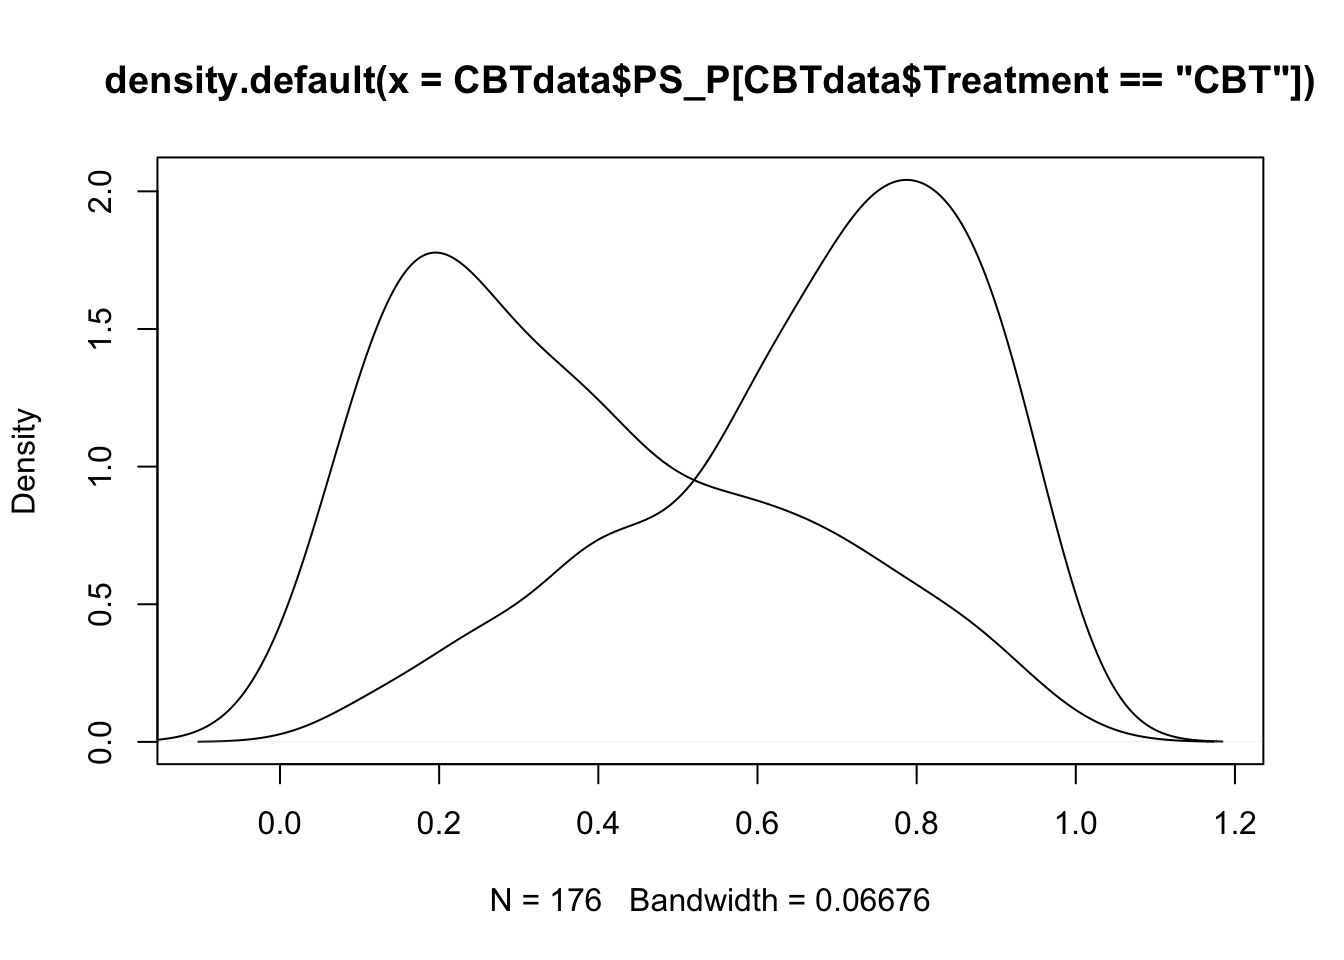
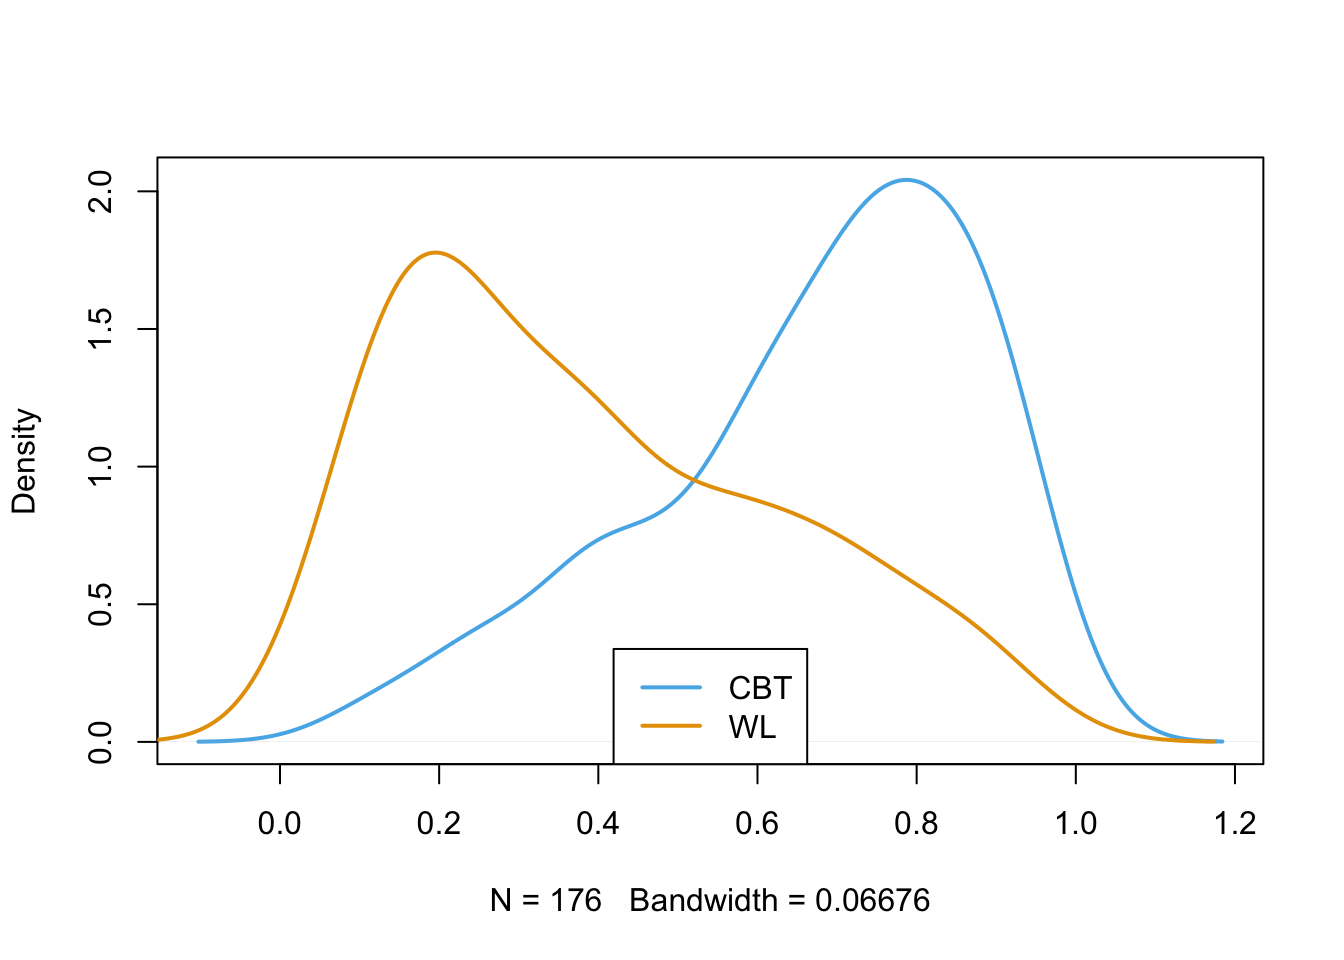
Streamline Kausalschätzer 2 and add final discussion.

diff --git a/content/post/2022-02-07_Kausaleffekte_2_KliPPS.html b/content/post/2022-02-07_Kausaleffekte_2_KliPPS.html
@@ -1404,6 +1404,114 @@ table(df.strat$Treatment, df.strat$subclass)</code></pre>
 <p><img src="/post/2022-02-07_Kausaleffekte_2_KliPPS_files/figure-html/unnamed-chunk-32-1.png" width="672" /></p>
 <div id="effektschätzung-1" class="section level3">
 <h3>Effektschätzung</h3>
+<p>Es gibt nun mehrere Möglichkeiten bei Stratifizierung den Treatmenteffekt zu bestimmen. Entweder können wir in jedem Stratum den Effekt schätzen, indem wir die Mittelwerte in der CBT und der WL Gruppe vergleichen (siehe hierzu <a href="#AppendixC">Appendix C</a>), oder wir verwenden die Gewichte, die bei der Stratifizierung ebenfalls bestimmt werden und rechnen erneut eine gewichtete Regression. Da bei der ersten Variante das Bestimmen des Standardfehlers und die damit verbundene Signifikanzentscheidung recht schwierig ist, schauen wir uns jetzt, wie für das Full Optimal Matching, eine Schätzung mit dem linearen Modell unter Verwendung der Gewichte an. Der hier resultierende Effekt von <span class="math inline">\(\beta = -3.89\)</span> ist ähnlich dem beim Full Optimal Matching. Beide Methoden sind sich konzeptuell ähnlich, bei der Stratifizierung werden mit einer einfacheren Methode weniger Subklassen gebildet.</p>
+<pre class="r"><code>lm.strat &lt;- lm(BDI_post ~ Treatment, data = df.strat, weights = weights)
+summary(lm.strat)</code></pre>
+<pre><code>## 
+## Call:
+## lm(formula = BDI_post ~ Treatment, data = df.strat, weights = weights)
+## 
+## Weighted Residuals:
+##     Min      1Q  Median      3Q     Max 
+## -15.004  -4.494  -1.494   1.506  30.792 
+## 
+## Coefficients:
+##              Estimate Std. Error t value Pr(&gt;|t|)    
+## (Intercept)   22.3833     0.4458  50.206  &lt; 2e-16 ***
+## TreatmentCBT  -3.8890     0.6068  -6.409 5.16e-10 ***
+## ---
+## Signif. codes:  0 &#39;***&#39; 0.001 &#39;**&#39; 0.01 &#39;*&#39; 0.05 &#39;.&#39; 0.1 &#39; &#39; 1
+## 
+## Residual standard error: 5.46 on 324 degrees of freedom
+## Multiple R-squared:  0.1125, Adjusted R-squared:  0.1098 
+## F-statistic: 41.08 on 1 and 324 DF,  p-value: 5.156e-10</code></pre>
+<p>Die Gewichte waren im Datensatz <code>df.strat</code> unter dem Argument <code>weights</code> verfügbar und mussten so wie zuvor beim Full Optimal Matching im <code>lm</code>-Befehl nur entsprechend zugeordnet werden.</p>
+</div>
+</div>
+<div id="gewichtung-mit-dem-propensity-score" class="section level2">
+<h2>Gewichtung mit dem Propensity Score</h2>
+<p>Alternativ zur Bildung von Gewichten durch Matching können wir die Gewichte direkt auf Basis des Propensity Scores <span class="math inline">\(\pi\)</span> und der Treatmentgruppen-Zugehörigkeit <span class="math inline">\(X \in \{0,1\}\)</span> konstruieren. Die Formel hierfür ist</p>
+<p><span class="math display">\[\frac{X_i}{\pi_i}+\frac{1-X_i}{1-\pi_i}\]</span></p>
+<pre class="r"><code># mit (CBTdata$Treatment==&quot;CBT&quot;)*1 wird Treatment numerisch mit 1, Kontrollgruppe mit 0 kodiert
+CBTdata$ps_w &lt;- (CBTdata$Treatment==&quot;CBT&quot;)*1/CBTdata$PS_P + (1 - (CBTdata$Treatment==&quot;CBT&quot;)*1)/(1 - CBTdata$PS_P)</code></pre>
+<p>Diese Gewichte können in der <code>lm</code>-Funktion verwendet werden, um eine Schätzung mittels <em>weighted least squares</em> (WLS) vorzunehmen. Hierbei erhalten wir mit einem geschätzten Treatment-Effekt von -4.59 eine ähnliche Schätzung wie mit den anderen Methoden.</p>
+<pre class="r"><code>BDI.weighted &lt;- lm(BDI_post ~ Treatment, data = CBTdata, weights = ps_w)
+summary(BDI.weighted)</code></pre>
+<pre><code>## 
+## Call:
+## lm(formula = BDI_post ~ Treatment, data = CBTdata, weights = ps_w)
+## 
+## Weighted Residuals:
+##     Min      1Q  Median      3Q     Max 
+## -25.164  -6.222  -0.731   3.931  55.347 
+## 
+## Coefficients:
+##              Estimate Std. Error t value Pr(&gt;|t|)    
+## (Intercept)   21.4538     0.4603  46.611  &lt; 2e-16 ***
+## TreatmentCBT  -4.5866     0.6629  -6.919 2.43e-11 ***
+## ---
+## Signif. codes:  0 &#39;***&#39; 0.001 &#39;**&#39; 0.01 &#39;*&#39; 0.05 &#39;.&#39; 0.1 &#39; &#39; 1
+## 
+## Residual standard error: 8.515 on 324 degrees of freedom
+## Multiple R-squared:  0.1287, Adjusted R-squared:  0.1261 
+## F-statistic: 47.88 on 1 and 324 DF,  p-value: 2.435e-11</code></pre>
+<p>Wir sehen, dass alle Korrekturen zu ähnlichen Ergebnissen kommen. Der Treatmenteffekt ist signifikant. Nur in der Ausprägung kommt es von Methode zu Methode zu leichten Unterschieden. Diese Unterschiede kommen mitunter zu Stande, weil die Methoden unterschiedlich viele Informationen über die Daten nutzen. Bspw. hatten wir bei der Stratifizierung nur 5 Subklassen gebildet, während beim Full Matching deutlich mehr Subklassen extrahiert wurden (die Methode war aber auch etwas anders!). Wir können also, unter den (strengen) Annahmen der Methoden, vor allem <em>Strong Ignoribility</em>, schließen, dass es einen Treatmenteffekt gibt (mit einer Irrtumswahrscheinlichkeit von 5%).</p>
+<hr />
+</div>
+<div id="r-skript" class="section level2">
+<h2>R-Skript</h2>
+<p>Den gesamten <code>R</code>-Code, der in dieser Sitzung genutzt wird, können Sie <a href="/post/KliPPs_MSc5a_R_Files/10_Kausalschätzer_2_RCode.R"><svg aria-hidden="true" role="img" viewBox="0 0 512 512" style="height:1em;width:1em;vertical-align:-0.125em;margin-left:auto;margin-right:auto;font-size:inherit;fill:currentColor;overflow:visible;position:relative;"><path d="M216 0h80c13.3 0 24 10.7 24 24v168h87.7c17.8 0 26.7 21.5 14.1 34.1L269.7 378.3c-7.5 7.5-19.8 7.5-27.3 0L90.1 226.1c-12.6-12.6-3.7-34.1 14.1-34.1H192V24c0-13.3 10.7-24 24-24zm296 376v112c0 13.3-10.7 24-24 24H24c-13.3 0-24-10.7-24-24V376c0-13.3 10.7-24 24-24h146.7l49 49c20.1 20.1 52.5 20.1 72.6 0l49-49H488c13.3 0 24 10.7 24 24zm-124 88c0-11-9-20-20-20s-20 9-20 20 9 20 20 20 20-9 20-20zm64 0c0-11-9-20-20-20s-20 9-20 20 9 20 20 20 20-9 20-20z"/></svg> hier herunterladen</a>.</p>
+<hr />
+</div>
+<div id="AppendixA" class="section level2">
+<h2>Appendix A</h2>
+<details>
+<summary>
+<strong>Kurze Grafiken</strong>
+</summary>
+<p>Mit <code>density</code> kann man die Dichte (also die Häufigkeitsverteilung) einer Variable bestimmen. Diese kann man recht leicht plotten:</p>
+<pre class="r"><code>## Overlap &amp; Common Support ----
+plot(density(CBTdata$PS_P[CBTdata$Treatment == &quot;CBT&quot;]), 
+     type = &quot;l&quot;)
+lines(density(CBTdata$PS_P[CBTdata$Treatment == &quot;WL&quot;]))</code></pre>
+<p><img src="/post/2022-02-07_Kausaleffekte_2_KliPPS_files/figure-html/unnamed-chunk-37-1.png" width="672" /></p>
+<p>Jetzt können wir leider die Linien nicht unterscheiden, weswegen wir die Farben aus den anderen Grafiken nun auch hier einfügen. Außerdem spendieren wir eine Legenende, änderen die Dicke der Linien und entfernen den seltsame Titel:</p>
+<pre class="r"><code>## Overlap &amp; Common Support ----
+plot(density(CBTdata$PS_P[CBTdata$Treatment == &quot;CBT&quot;]), 
+     col = &quot;#56B4E9&quot;, lwd = 2, type = &quot;l&quot;, main = &quot;&quot;)
+lines(density(CBTdata$PS_P[CBTdata$Treatment == &quot;WL&quot;]), 
+      col = &quot;#E69F00&quot;, lwd = 2)
+legend(legend = c(&quot;CBT&quot;, &quot;WL&quot;), lwd = 2, 
+       col = c(&quot;#56B4E9&quot;, &quot;#E69F00&quot;), x = &quot;bottom&quot;)</code></pre>
+<p><img src="/post/2022-02-07_Kausaleffekte_2_KliPPS_files/figure-html/unnamed-chunk-38-1.png" width="672" /></p>
+</details>
+</div>
+<div id="Gewichtung" class="section level2">
+<h2>Appendix B</h2>
+<details>
+<summary>
+<strong>Bildung der Gewichte</strong>
+</summary>
+<p>Die Gewichte zur Schätzung des ATT, mit denen die relativen Häufigkeiten der Kovariaten-Subklassen der Treatment-Gruppe, an die Kontrollgruppe angeglichen werden, werden wie folgt gebildet:</p>
+<p><span class="math display">\[w_{Cs}=\frac{N_C}{n_{Cs}}*\frac{n_{Ts}}{N_T}\]</span>
+Hierbei sind</p>
+<ul>
+<li><span class="math inline">\(w_{Cs}\)</span> das Gewicht für Kontrollpersonen in Subklasse <span class="math inline">\(s\)</span></li>
+<li><span class="math inline">\(N_C\)</span> die Größe der Kontrollgruppe</li>
+<li><span class="math inline">\(N_T\)</span> die Größe der Treatment-Gruppe</li>
+<li><span class="math inline">\(n_{Cs}\)</span> die Anzahl von Kontrollpersonen in Subklasse <span class="math inline">\(s\)</span></li>
+<li><span class="math inline">\(n_{Ts}\)</span> die Anzahl von Treatment-Personen in Subklasse <span class="math inline">\(s\)</span></li>
+</ul>
+<p>Die Gewichte werden also umso größer, je mehr Treatment-Personen in einer Subklasse <span class="math inline">\(s\)</span> sind, und um so kleiner, je mehr Kontrollpersonen in der Subklasse sind. Die Summe der Gewichte über alle Subklassen <span class="math inline">\(S\)</span> entspricht der urprünglichen Fallzahl <span class="math inline">\(N_C\)</span>:</p>
+<span class="math display">\[\sum^S_{s=1}{w_{Cs}}=N_C\]</span>
+</details>
+</div>
+<div id="AppendixC" class="section level2">
+<h2>Appendix C</h2>
+<details>
+<summary>
+<strong>Effektschätzung bei Stratifizierung per Hand</strong>
+</summary>
 <p>Den Treatment-Effekt können wir “per Hand” berechnen. Die Funktion <code>tapply</code> wird hierbei benutzt, um die Mittelwerte von Treatment- und Kontrollgruppe in den Strata zu berechnen. <code>tapply</code> wendet dabei eine Funktion (hier <code>mean</code>) auf eine Kombination aus Gruppierungen an. Diese Mittelwerte packen wir anschließend in einen <code>data.frame</code>, um sie uns besser anzusehen.</p>
 <p>Die Mittelwerte in der CBT und der WL Gruppen werden dann als Schätzer für <span class="math inline">\(Y^0\)</span> und <span class="math inline">\(Y^1\)</span> verwendet, aus ihrer Differenz ergibt sich der ATT innerhalb jedes Stratum.
 Für jedes Stratum wird anhand des Anteils der Fälle an der Gesamtstichprobe ein Gewichtungsfaktor berechtet.</p>
@@ -1437,104 +1545,5 @@ sum(MWW$Wq * MWW$ATEq)</code></pre>
 ## 8         3       CBT 18.52778
 ## 9         4       CBT 19.80000
 ## 10        5       CBT 23.72222</code></pre>
-<p>Eine weitere Möglichkeit ist, wie für das Full Optimal Matching, eine Schätzung mit dem linearen Modell unter Verwendung der Gewichte. Der hier resultierende Effekt von <span class="math inline">\(\beta = -3.89\)</span> ist ähnlich dem beim Full Optimal Matching. Beide Methoden sind sich konzeptuell ähnlich, bei der Stratifizierung werden mit einer einfacheren Methode weniger Subklassen gebildet.</p>
-<pre class="r"><code>lm.strat &lt;- lm(BDI_post ~ Treatment, data = df.strat, weights = weights)
-summary(lm.strat)</code></pre>
-<pre><code>## 
-## Call:
-## lm(formula = BDI_post ~ Treatment, data = df.strat, weights = weights)
-## 
-## Weighted Residuals:
-##     Min      1Q  Median      3Q     Max 
-## -15.004  -4.494  -1.494   1.506  30.792 
-## 
-## Coefficients:
-##              Estimate Std. Error t value Pr(&gt;|t|)    
-## (Intercept)   22.3833     0.4458  50.206  &lt; 2e-16 ***
-## TreatmentCBT  -3.8890     0.6068  -6.409 5.16e-10 ***
-## ---
-## Signif. codes:  0 &#39;***&#39; 0.001 &#39;**&#39; 0.01 &#39;*&#39; 0.05 &#39;.&#39; 0.1 &#39; &#39; 1
-## 
-## Residual standard error: 5.46 on 324 degrees of freedom
-## Multiple R-squared:  0.1125, Adjusted R-squared:  0.1098 
-## F-statistic: 41.08 on 1 and 324 DF,  p-value: 5.156e-10</code></pre>
-</div>
-</div>
-<div id="gewichtung-mit-dem-propensity-score" class="section level2">
-<h2>Gewichtung mit dem Propensity Score</h2>
-<p>Alternativ zur Bildung von Gewichten durch Matching können wir die Gewichte direkt auf Basis des Propensity Scores <span class="math inline">\(\pi\)</span> und der Treatmentgruppen-Zugehörigkeit <span class="math inline">\(X \in \{0,1\}\)</span> konstruieren. Die Formel hierfür ist</p>
-<p><span class="math display">\[\frac{X_i}{\pi_i}+\frac{1-X_i}{1-\pi_i}\]</span></p>
-<pre class="r"><code># mit (CBTdata$Treatment==&quot;CBT&quot;)*1 wird Treatment numerisch mit 1, Kontrollgruppe mit 0 kodiert
-CBTdata$ps_w &lt;- (CBTdata$Treatment==&quot;CBT&quot;)*1/CBTdata$PS_P + (1 - (CBTdata$Treatment==&quot;CBT&quot;)*1)/(1 - CBTdata$PS_P)</code></pre>
-<p>Diese Gewichte können in der <code>lm</code>-Funktion verwendet werden, um eine Schätzung mittels <em>weighted least squares</em> (WLS) vorzunehmen. Hierbei erhalten wir mit einem geschätzten Treatment-Effekt von -4.59 eine ähnliche Schätzung wie mit den anderen Methoden.</p>
-<pre class="r"><code>BDI.weighted &lt;- lm(BDI_post ~ Treatment, data = CBTdata, weights = ps_w)
-summary(BDI.weighted)</code></pre>
-<pre><code>## 
-## Call:
-## lm(formula = BDI_post ~ Treatment, data = CBTdata, weights = ps_w)
-## 
-## Weighted Residuals:
-##     Min      1Q  Median      3Q     Max 
-## -25.164  -6.222  -0.731   3.931  55.347 
-## 
-## Coefficients:
-##              Estimate Std. Error t value Pr(&gt;|t|)    
-## (Intercept)   21.4538     0.4603  46.611  &lt; 2e-16 ***
-## TreatmentCBT  -4.5866     0.6629  -6.919 2.43e-11 ***
-## ---
-## Signif. codes:  0 &#39;***&#39; 0.001 &#39;**&#39; 0.01 &#39;*&#39; 0.05 &#39;.&#39; 0.1 &#39; &#39; 1
-## 
-## Residual standard error: 8.515 on 324 degrees of freedom
-## Multiple R-squared:  0.1287, Adjusted R-squared:  0.1261 
-## F-statistic: 47.88 on 1 and 324 DF,  p-value: 2.435e-11</code></pre>
-<p>Wir sehen, dass alle Korrekturen zu ähnlichen Ergebnissen kommen. Der Treatment effekt ist signifikant. Nur in der Ausprägung kommt es von Methode zu Methode zu leichten Unterschieden. Diese Unterschiede kommen mitunter zu Stande, weil die Methoden unterschiedlich viele Informationen über die Daten nutzen. Bspw. hatten wir bei der Stratifizierung nur 5 Subklassen gebildet, während beim Full Matching deutlich mehr Subklassen extrahiert wurden (die Methode war aber auch etwas anders!).</p>
-<hr />
-</div>
-<div id="r-skript" class="section level2">
-<h2>R-Skript</h2>
-<p>Den gesamten <code>R</code>-Code, der in dieser Sitzung genutzt wird, können Sie <a href="/post/KliPPs_MSc5a_R_Files/10_Kausalschätzer_2_RCode.R"><svg aria-hidden="true" role="img" viewBox="0 0 512 512" style="height:1em;width:1em;vertical-align:-0.125em;margin-left:auto;margin-right:auto;font-size:inherit;fill:currentColor;overflow:visible;position:relative;"><path d="M216 0h80c13.3 0 24 10.7 24 24v168h87.7c17.8 0 26.7 21.5 14.1 34.1L269.7 378.3c-7.5 7.5-19.8 7.5-27.3 0L90.1 226.1c-12.6-12.6-3.7-34.1 14.1-34.1H192V24c0-13.3 10.7-24 24-24zm296 376v112c0 13.3-10.7 24-24 24H24c-13.3 0-24-10.7-24-24V376c0-13.3 10.7-24 24-24h146.7l49 49c20.1 20.1 52.5 20.1 72.6 0l49-49H488c13.3 0 24 10.7 24 24zm-124 88c0-11-9-20-20-20s-20 9-20 20 9 20 20 20 20-9 20-20zm64 0c0-11-9-20-20-20s-20 9-20 20 9 20 20 20 20-9 20-20z"/></svg> hier herunterladen</a>.</p>
-<hr />
-</div>
-<div id="AppendixA" class="section level2">
-<h2>Appendix A</h2>
-<details>
-<summary>
-<strong>Kurze Grafiken</strong>
-</summary>
-<p>Mit <code>density</code> kann man die Dichte (also die Häufigkeitsverteilung) einer Variable bestimmen. Diese kann man recht leicht plotten:</p>
-<pre class="r"><code>## Overlap &amp; Common Support ----
-plot(density(CBTdata$PS_P[CBTdata$Treatment == &quot;CBT&quot;]), 
-     type = &quot;l&quot;)
-lines(density(CBTdata$PS_P[CBTdata$Treatment == &quot;WL&quot;]))</code></pre>
-<p><img src="/post/2022-02-07_Kausaleffekte_2_KliPPS_files/figure-html/unnamed-chunk-41-1.png" width="672" /></p>
-<p>Jetzt können wir leider die Linien nicht unterscheiden, weswegen wir die Farben aus den anderen Grafiken nun auch hier einfügen. Außerdem spendieren wir eine Legenende, änderen die Dicke der Linien und entfernen den seltsame Titel:</p>
-<pre class="r"><code>## Overlap &amp; Common Support ----
-plot(density(CBTdata$PS_P[CBTdata$Treatment == &quot;CBT&quot;]), 
-     col = &quot;#56B4E9&quot;, lwd = 2, type = &quot;l&quot;, main = &quot;&quot;)
-lines(density(CBTdata$PS_P[CBTdata$Treatment == &quot;WL&quot;]), 
-      col = &quot;#E69F00&quot;, lwd = 2)
-legend(legend = c(&quot;CBT&quot;, &quot;WL&quot;), lwd = 2, 
-       col = c(&quot;#56B4E9&quot;, &quot;#E69F00&quot;), x = &quot;bottom&quot;)</code></pre>
-<p><img src="/post/2022-02-07_Kausaleffekte_2_KliPPS_files/figure-html/unnamed-chunk-42-1.png" width="672" /></p>
-</details>
-</div>
-<div id="Gewichtung" class="section level2">
-<h2>Appendix B</h2>
-<details>
-<summary>
-<strong>Bildung der Gewichte</strong>
-</summary>
-<p>Die Gewichte zur Schätzung des ATT, mit denen die relativen Häufigkeiten der Kovariaten-Subklassen der Treatment-Gruppe, an die Kontrollgruppe angeglichen werden, werden wie folgt gebildet:</p>
-<p><span class="math display">\[w_{Cs}=\frac{N_C}{n_{Cs}}*\frac{n_{Ts}}{N_T}\]</span>
-Hierbei sind</p>
-<ul>
-<li><span class="math inline">\(w_{Cs}\)</span> das Gewicht für Kontrollpersonen in Subklasse <span class="math inline">\(s\)</span></li>
-<li><span class="math inline">\(N_C\)</span> die Größe der Kontrollgruppe</li>
-<li><span class="math inline">\(N_T\)</span> die Größe der Treatment-Gruppe</li>
-<li><span class="math inline">\(n_{Cs}\)</span> die Anzahl von Kontrollpersonen in Subklasse <span class="math inline">\(s\)</span></li>
-<li><span class="math inline">\(n_{Ts}\)</span> die Anzahl von Treatment-Personen in Subklasse <span class="math inline">\(s\)</span></li>
-</ul>
-<p>Die Gewichte werden also umso größer, je mehr Treatment-Personen in einer Subklasse <span class="math inline">\(s\)</span> sind, und um so kleiner, je mehr Kontrollpersonen in der Subklasse sind. Die Summe der Gewichte über alle Subklassen <span class="math inline">\(S\)</span> entspricht der urprünglichen Fallzahl <span class="math inline">\(N_C\)</span>:</p>
-<span class="math display">\[\sum^S_{s=1}{w_{Cs}}=N_C\]</span>
 </details>
 </div>
